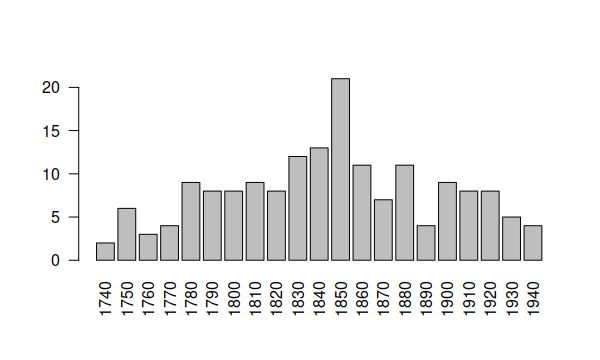
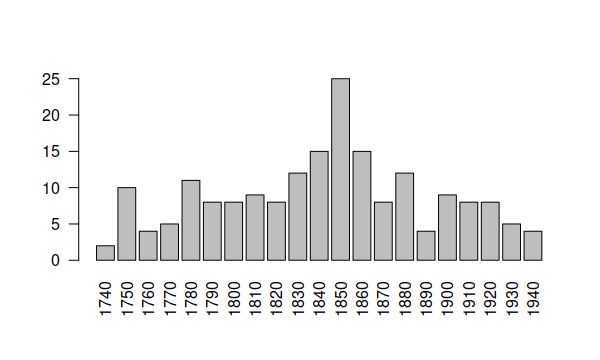
update README

diff --git a/README.md b/README.md
@@ -2,7 +2,7 @@
 ## Corpus Description
 We are building a Russian Drama Corpus with files encoded in
 [TEI-P5](http://www.tei-c.org/Guidelines/P5/). Our corpus comprises
-**170 plays** to date, originating from [ilibrary](https://ilibrary.ru/),
+**190 plays** to date, originating from [ilibrary](https://ilibrary.ru/),
 [Wikisource](https://ru.wikisource.org/), [РВБ](https://rvb.ru/),
 [lib.ru](http://lib.ru/), [ФЕБ](http://feb-web.ru/),
 [СовЛит](http://www.ruthenia.ru/sovlit/) and
@@ -64,4 +64,4 @@ Here is a barplot showing the number of plays per decade:
 
 ![number of speakers per play over time](playsPerDecade.png)
 
-(README last updated on August 7, 2019.)
+(README last updated on September 1, 2019.)
